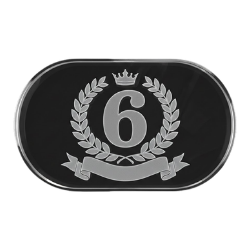
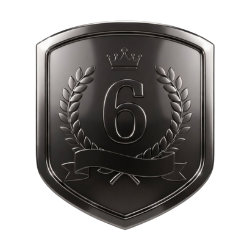
Changes

diff --git a/src/pages/app/LeaderboardPage.tsx b/src/pages/app/LeaderboardPage.tsx
@@ -13,6 +13,7 @@ import medal2 from '@/assets/medal-2.png';
 import medal3 from '@/assets/medal-3.png';
 import medal4 from '@/assets/medal-4.png';
 import medal5 from '@/assets/medal-5.png';
+import medal6 from '@/assets/medal-6.png';
 
 import { useNavigate } from 'react-router-dom';
 import { Input } from '@/components/ui/input';
@@ -332,17 +333,17 @@ export default function LeaderboardPage() {
                 >
                   {/* Rank */}
                   <div className="col-span-2 sm:col-span-1 flex items-center justify-center -ml-[5.5px]">
-                    {rank <= 5 ? (
+                    {rank <= 6 ? (
                       <div className={`medal-shine-container ${rank <= 3 ? 'w-12 h-12' : 'w-8 h-8'}`}>
                         <img 
-                          src={[medal1, medal2, medal3, medal4, medal5][rank - 1]} 
+                          src={[medal1, medal2, medal3, medal4, medal5, medal6][rank - 1]} 
                           alt={`Rank ${rank}`} 
                           className={`${rank <= 3 ? 'w-12 h-12' : 'w-8 h-8'} object-contain`}
                         />
                         <div 
                           key={shimmerKey}
                           className="medal-shine-overlay"
-                          style={{ '--medal-mask': `url(${[medal1, medal2, medal3, medal4, medal5][rank - 1]})` } as React.CSSProperties}
+                          style={{ '--medal-mask': `url(${[medal1, medal2, medal3, medal4, medal5, medal6][rank - 1]})` } as React.CSSProperties}
                         />
                       </div>
                     ) : (

diff --git a/src/components/app/sidebar/SidebarLeaderboard.tsx b/src/components/app/sidebar/SidebarLeaderboard.tsx
@@ -14,6 +14,7 @@ import medal2 from '@/assets/medal-2.png';
 import medal3 from '@/assets/medal-3.png';
 import medal4 from '@/assets/medal-4.png';
 import medal5 from '@/assets/medal-5.png';
+import medal6 from '@/assets/medal-6.png';
 
 const PERIODS = ['1d', '1w', '1m', '1y', 'All'] as const;
 const PERIOD_MAP: Record<string, string> = {
@@ -180,17 +181,17 @@ export function SidebarLeaderboard() {
                 >
                   {/* Rank */}
                   <div className="w-7 flex-shrink-0 flex items-center justify-center">
-                    {rank <= 5 ? (
+                    {rank <= 6 ? (
                       <div className={`medal-shine-container ${rank <= 3 ? 'w-10 h-10' : 'w-6 h-6'}`}>
                         <img 
-                          src={[medal1, medal2, medal3, medal4, medal5][rank - 1]} 
+                          src={[medal1, medal2, medal3, medal4, medal5, medal6][rank - 1]} 
                           alt={`Rank ${rank}`} 
                           className={`${rank <= 3 ? 'w-10 h-10' : 'w-6 h-6'} object-contain`}
                         />
                         <div 
                           key={shimmerKey}
                           className="medal-shine-overlay"
-                          style={{ '--medal-mask': `url(${[medal1, medal2, medal3, medal4, medal5][rank - 1]})` } as React.CSSProperties}
+                          style={{ '--medal-mask': `url(${[medal1, medal2, medal3, medal4, medal5, medal6][rank - 1]})` } as React.CSSProperties}
                         />
                       </div>
                     ) : (
